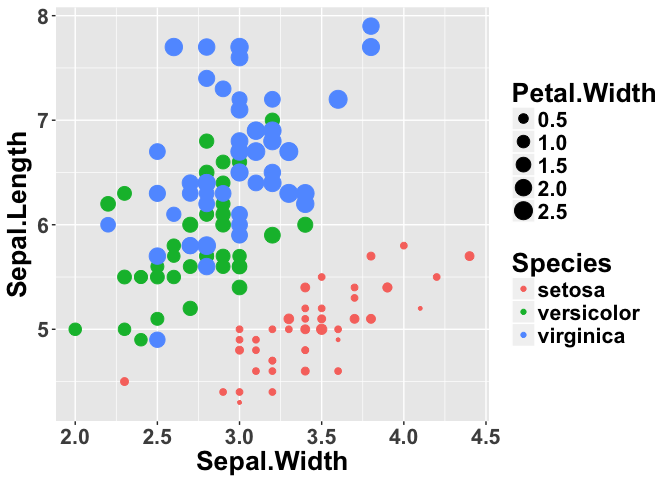
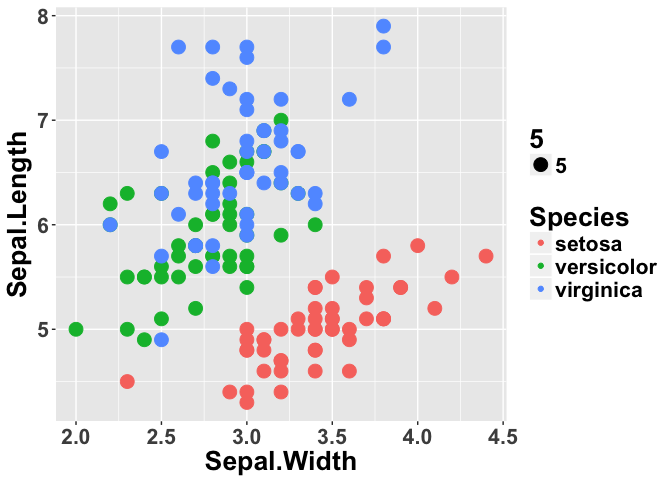
add parentheses in syntax sugar

diff --git a/README.md b/README.md
@@ -17,7 +17,7 @@ ggbash() # start a ggbash session
 ```
 
 ``` bash
-gg iris  +  point Sepal.W Sepal.L col=Spec siz=Petal.W  +  theme text: size=20 face="bold" |  echo
+gg(iris) + point(Sepal.W, Sepal.L, col=Spec, sz=7) +  theme(text: size=20, face="bold") | echo
 ```
 
 ![](README-example-1.png)
@@ -26,8 +26,14 @@ gg iris  +  point Sepal.W Sepal.L col=Spec siz=Petal.W  +  theme text: size=20 f
 # The output of the above ggbash 'echo' command
 ggplot(iris) +
 geom_point(aes(Sepal.Width, Sepal.Length,
-               colour=Species, size=Petal.Width)) +
+               colour=Species, size=7)) +
 theme(text=element_text(size=20, face="bold"))
+```
+
+If you prefer the short command,
+
+``` r
+g iris + p Sepal.W Sepal.L c=Sp sz=7 + theme t: sz=20 f="bold" | echo # 
 ```
 
 ### One-liner
